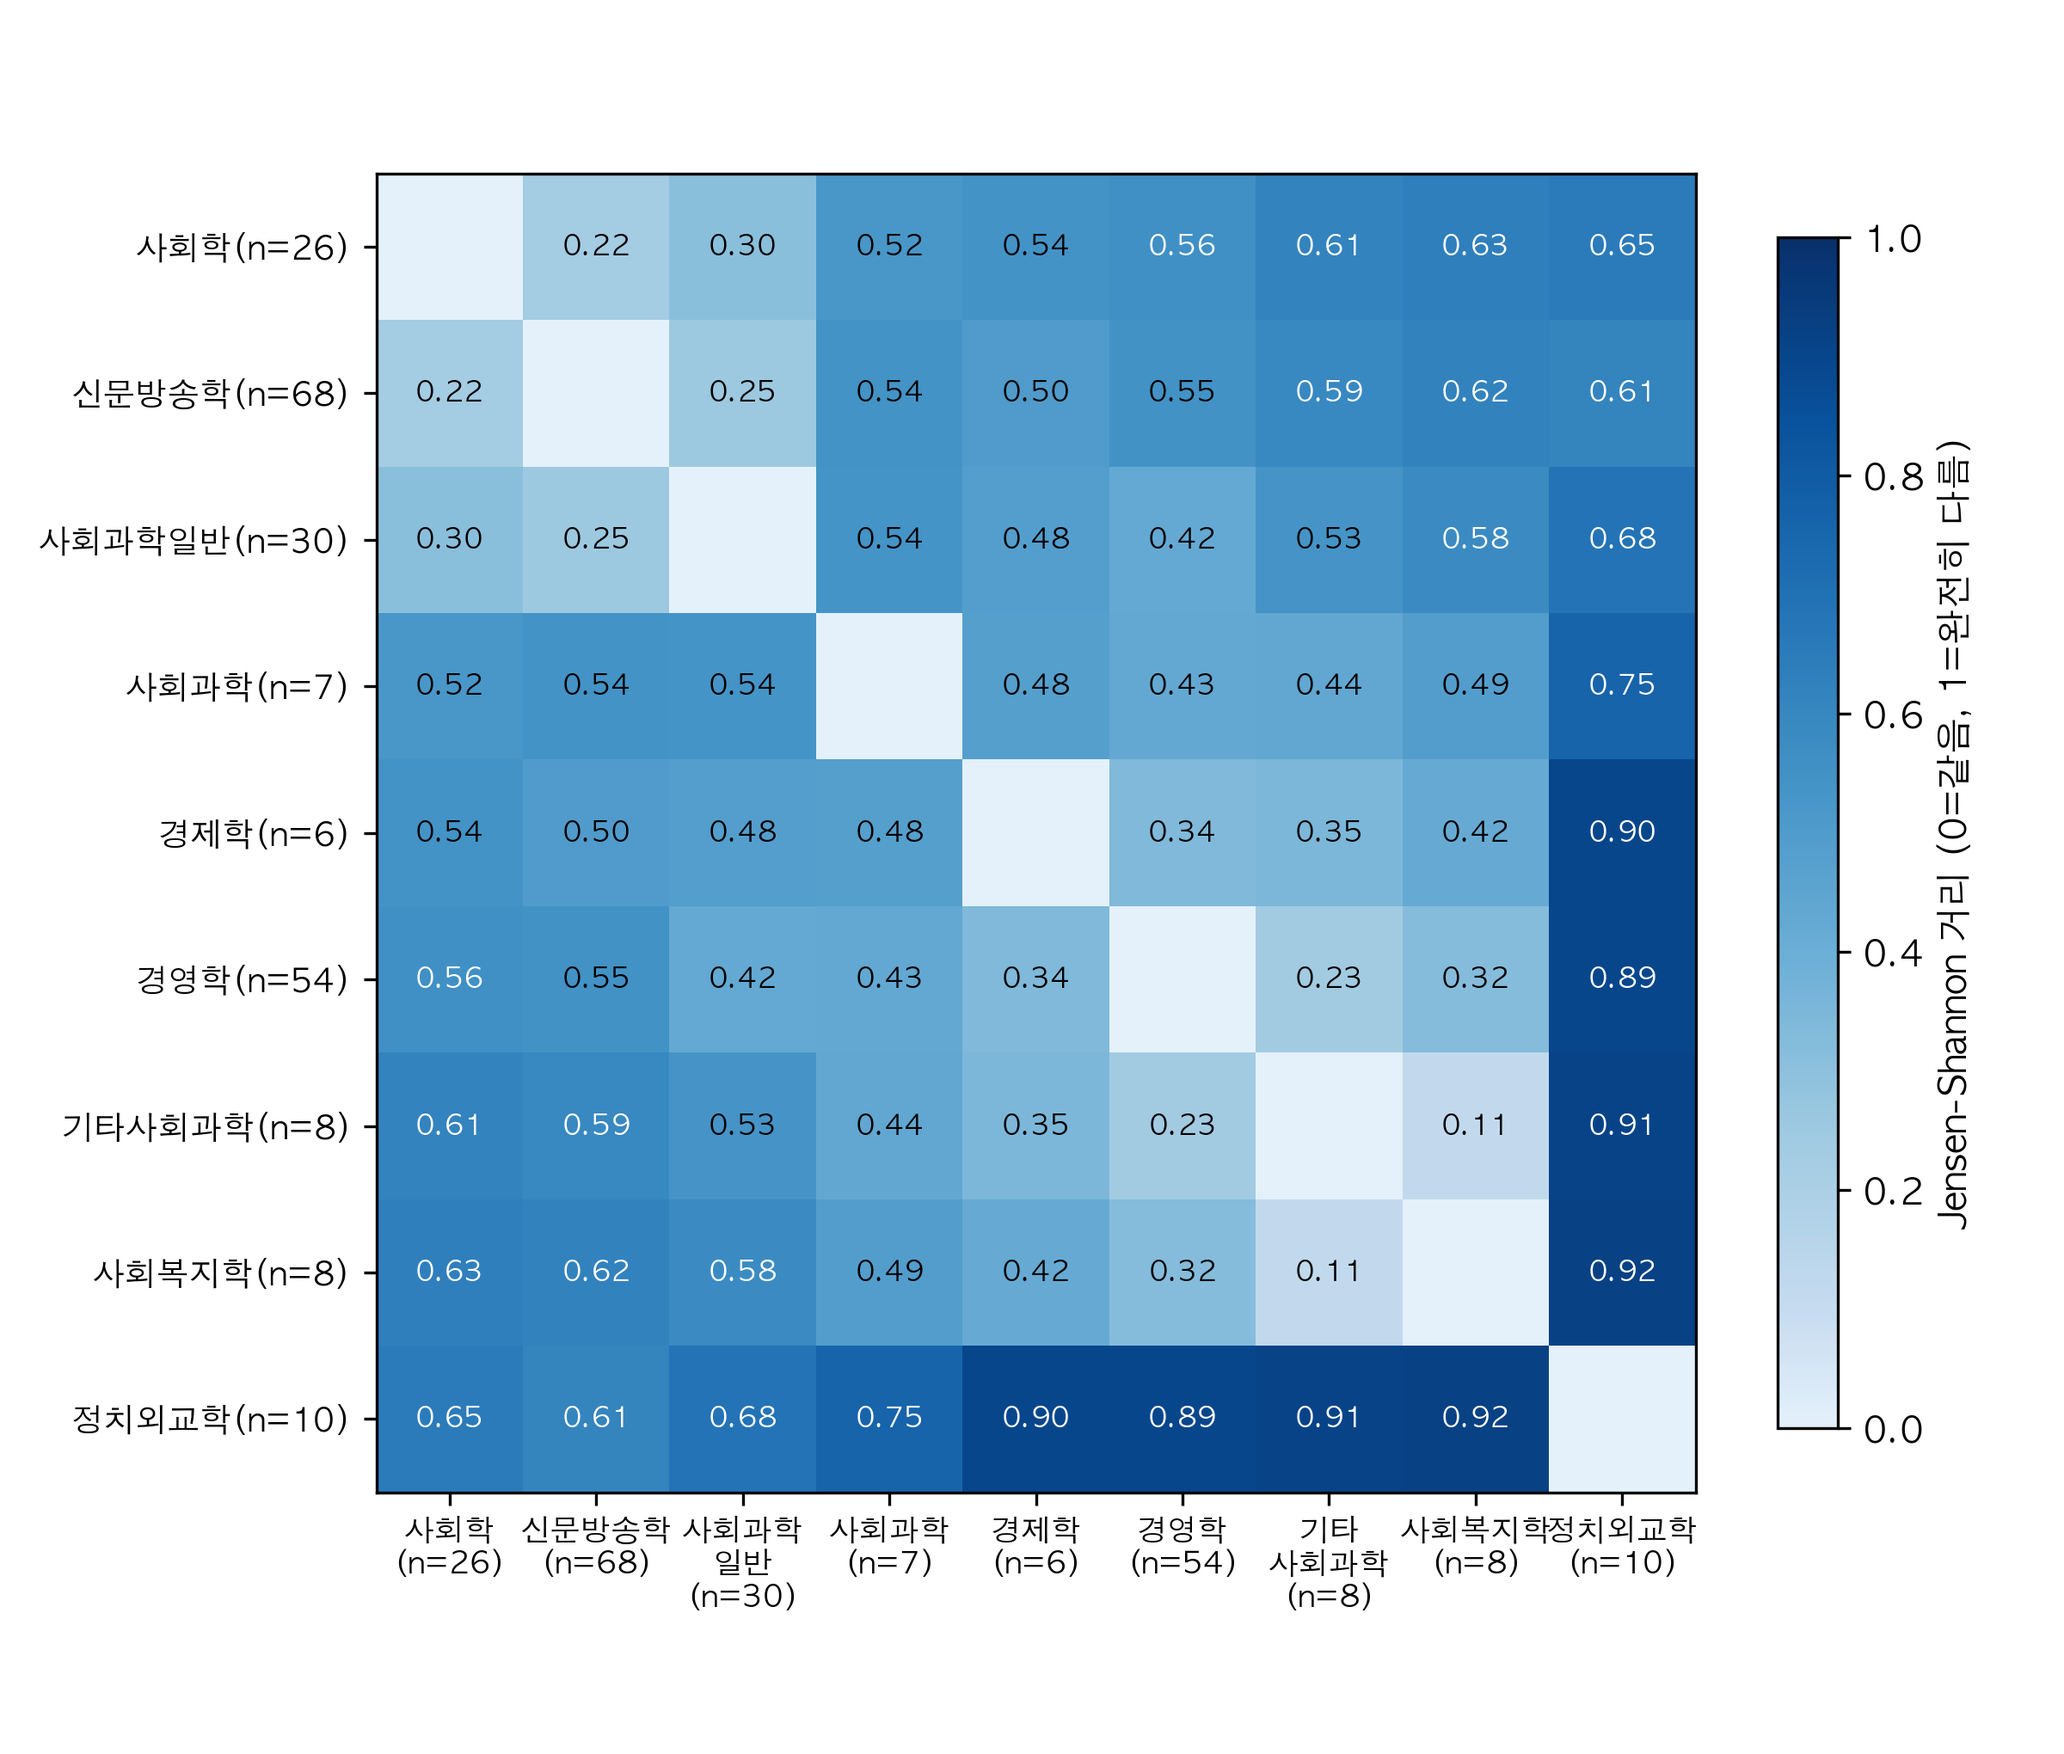
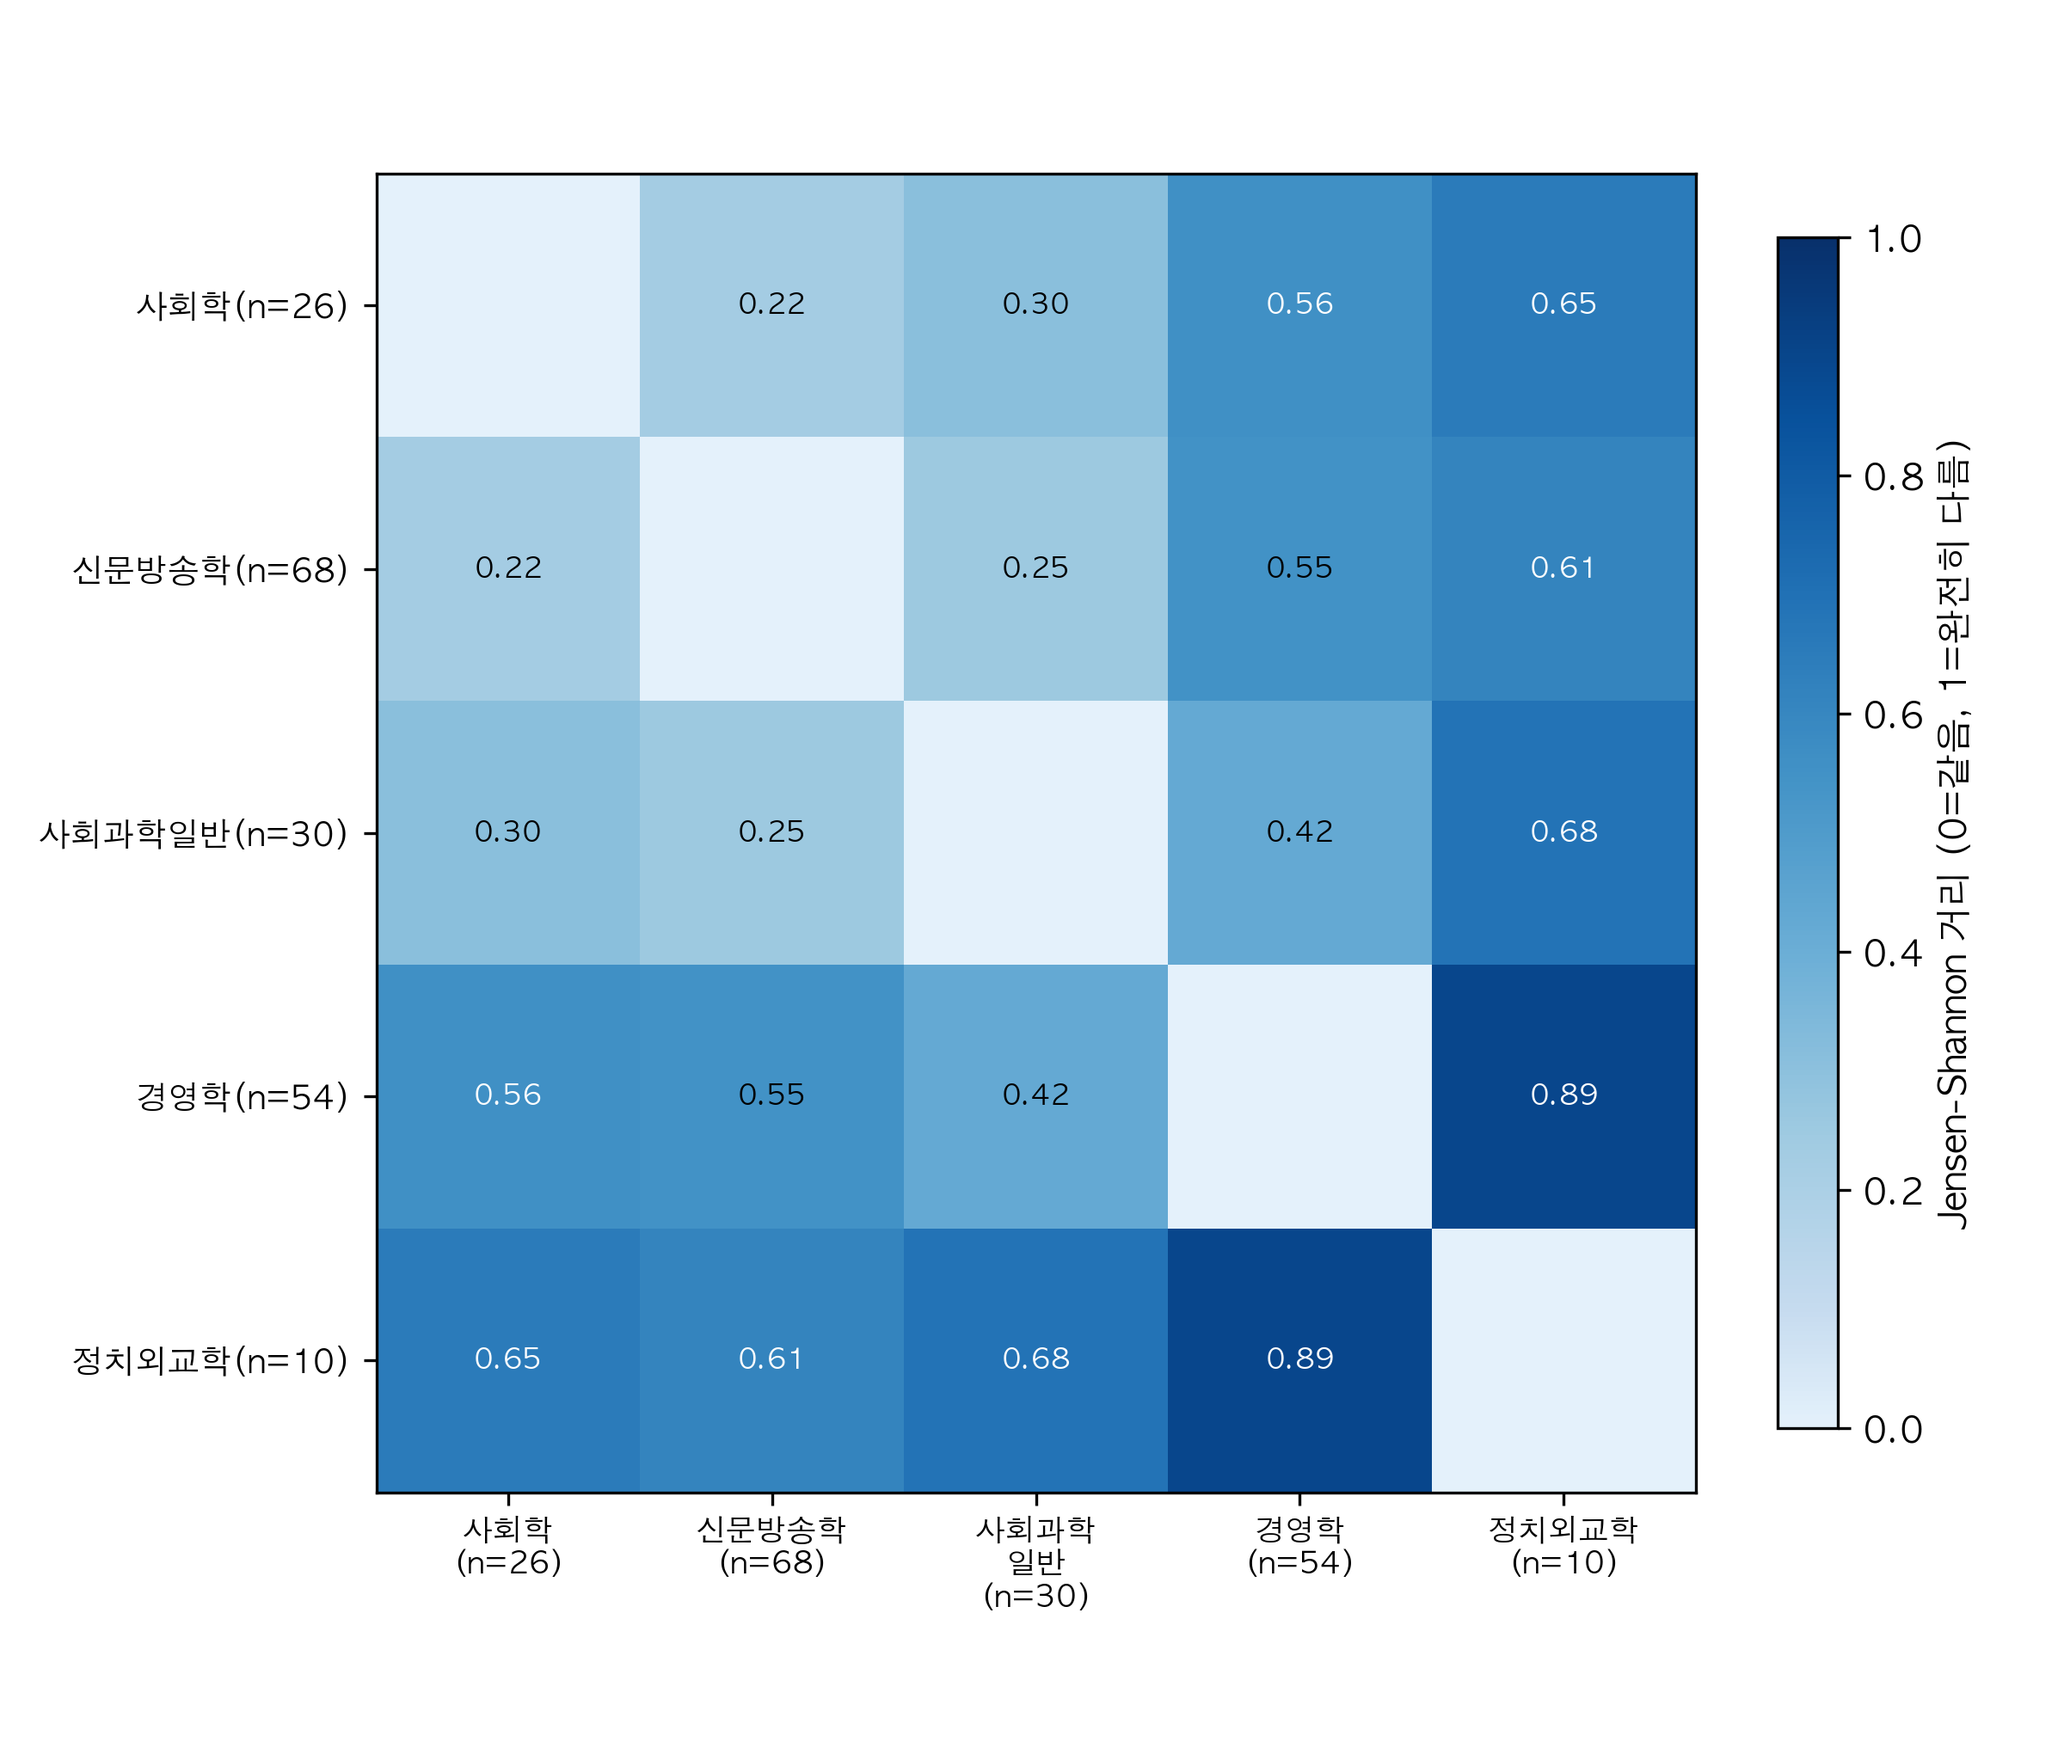
20260929

diff --git a/target_new/visualize_results.py b/target_new/visualize_results.py
@@ -148,16 +148,18 @@ def load_merged(excluded: bool = False) -> pd.DataFrame:
     """분류 결과 + 원본 엑셀의 중분류(분야)를 논문ID 기준으로 합친다. 기본은 ALLOWED_FIELDS만
     남기고, excluded=True면 반대로 화이트리스트에서 빠진 분야만 남긴다(7c번 그래프용)."""
     results = pd.read_csv(RESULTS_CSV, encoding="utf-8-sig", dtype={"id": str})
-    # 3회 분류에서 판정이 전부 갈려 과반 라벨이 없는 논문(status=OK인데 코드가 빈칸)은 리뷰 전까지
-    # 모든 그래프에서 뺀다 - 그대로 두면 편수 그래프(1·2·6번)에는 들어가고 코드 그래프에서는 빠져서
-    # 그래프마다 분모가 달라진다. 리뷰대상 목록은 analyze_runs3.py가 따로 만든다
+    # 과반 라벨이 없는 논문은 분야·시기별 코드 분석에서만 제외한다. 전체 요약(0번)은 원본 CSV를
+    # 별도로 읽어 이 문헌들을 미분류로 포함한다. 리뷰대상 목록은 analyze_runs3.py가 따로 만든다.
     no_label = (
         (results["status"] == "OK")
         & results["role_codes"].fillna("").str.strip().eq("")
         & results["env_codes"].fillna("").str.strip().eq("")
     )
     if no_label.any():
-        print(f"과반 라벨 없는 논문 {no_label.sum()}편은 그래프에서 제외 (리뷰 대상)")
+        print(
+            f"과반 라벨 없는 논문 {no_label.sum()}편: 0번 요약에는 미분류로 포함, "
+            "분야·시기별 그래프에서는 제외 (리뷰 대상)"
+        )
     results = results[~no_label]
     meta = pd.read_excel(XLSX_PATH, sheet_name="Sheet1", dtype={"논문ID": str})
     meta = meta[["논문ID", "중분류"]].rename(columns={"논문ID": "id", "중분류": "field"})
@@ -212,6 +214,81 @@ def chart1_overall_decade(df: pd.DataFrame) -> None:
     ax.spines[["top", "right"]].set_visible(False)
     fig.tight_layout()
     fig.savefig(OUT_DIR / "1_전체_시기별_추이.png", dpi=150)
+    plt.close(fig)
+
+
+def chart0_classification_summary(df: pd.DataFrame) -> None:
+    """원본 분류 CSV 전체를 분모로 ERR/비에러와 비에러 내 코드 비율을 각각 그린다."""
+    results = pd.read_csv(RESULTS_CSV, encoding="utf-8-sig", dtype={"id": str})
+    results["status"] = results["status"].fillna("").astype(str).str.strip()
+    csv_total = len(results)
+    if csv_total == 0:
+        print("요약 그래프 생략: 추출된 문헌이 없습니다")
+        return
+    total = csv_total
+
+    is_error = results["status"].eq("ERR")
+    non_error = ~is_error
+    has_role = results["role_codes"].fillna("").astype(str).str.strip().ne("")
+    has_env = results["env_codes"].fillna("").astype(str).str.strip().ne("")
+    groups = {
+        "역할만": non_error & has_role & ~has_env,
+        "환경만": non_error & ~has_role & has_env,
+        "역할+환경": non_error & has_role & has_env,
+        "미분류": non_error & ~has_role & ~has_env,
+    }
+    counts = {label: int(mask.sum()) for label, mask in groups.items()}
+    err_count = int(is_error.sum())
+    non_error_count = int(non_error.sum())
+    role_count = int((non_error & has_role).sum())
+    env_count = int((non_error & has_env).sum())
+    unclassified_count = counts["미분류"]
+
+    overall_labels = ["온라인 커뮤니티와 관련 없음", "온라인 커뮤니티 관련"]
+    overall_counts = [err_count, non_error_count]
+    overall_colors = [BAR_COLOR, ACCENT_COLOR]
+    fig, ax = plt.subplots(figsize=(7, 2.4))
+    bars = ax.barh(overall_labels, overall_counts, color=overall_colors, height=0.76)
+    for bar, count in zip(bars, overall_counts):
+        ax.text(
+            bar.get_width() + total * 0.012,
+            bar.get_y() + bar.get_height() / 2,
+            f"{count:,}  ({count / total:.1%})",
+            va="center",
+            fontsize=11,
+        )
+    ax.set_xlim(0, total * 1.16)
+    ax.set_xticks([])
+    ax.tick_params(axis="y", length=0, labelsize=11)
+    ax.spines[:].set_visible(False)
+    ax.spines["left"].set_visible(True)
+    ax.spines["left"].set_color("#b8c4d3")
+    fig.subplots_adjust(left=0.18, right=0.97, top=0.98, bottom=0.02)
+    fig.savefig(OUT_DIR / "0a_전체_ERR_비에러.png", dpi=180, bbox_inches="tight")
+    plt.close(fig)
+
+    detail_labels = ["미분류", "환경적 특성 조명", "역할적 특성 조명"]
+    detail_counts = [unclassified_count, env_count, role_count]
+    detail_colors = ["#b8c4d3", ACCENT_COLOR, BAR_COLOR]
+    fig, ax = plt.subplots(figsize=(7, 2.55))
+    bars = ax.barh(detail_labels, detail_counts, color=detail_colors, height=0.76)
+    for bar, count in zip(bars, detail_counts):
+        fraction = count / non_error_count if non_error_count else 0
+        ax.text(
+            bar.get_width() + non_error_count * 0.012,
+            bar.get_y() + bar.get_height() / 2,
+            f"{count:,}  ({fraction:.1%})",
+            va="center",
+            fontsize=11,
+        )
+    ax.set_xlim(0, max(detail_counts, default=0) * 1.22 or 1)
+    ax.set_xticks([])
+    ax.tick_params(axis="y", length=0, labelsize=11)
+    ax.spines[:].set_visible(False)
+    ax.spines["left"].set_visible(True)
+    ax.spines["left"].set_color("#b8c4d3")
+    fig.subplots_adjust(left=0.22, right=0.97, top=0.98, bottom=0.02)
+    fig.savefig(OUT_DIR / "0b_비에러_역할환경_미분류.png", dpi=180, bbox_inches="tight")
     plt.close(fig)
 
 
@@ -438,9 +515,11 @@ def _draw_ratio_bar(table: pd.DataFrame, colors: tuple[str, str], sort_col: str,
 
 def chart3_field_role_env_ratio_bar(df: pd.DataFrame) -> None:
     """3. 분야별 ROLE(역할)/ENV(환경) 비율 - 세로 100% 누적 막대그래프. ENV 비율이 높은
-    분야가 왼쪽에 오게 정렬(대부분 ROLE이 압도적이라, ENV가 조금이라도 있는 분야를 눈에 띄게)."""
+    분야가 왼쪽에 오게 정렬한다. 표시 n(ROLE/ENV 코드 등장 횟수 합)이 10 미만인 분야는 뺀다."""
+    table = _field_roleenv_table(df)
+    table = table.loc[table.sum(axis=1) >= 10]
     _draw_ratio_bar(
-        _field_roleenv_table(df),
+        table,
         colors=(BAR_COLOR, ACCENT_COLOR),
         sort_col="ENV(환경)",
         out_path=OUT_DIR / "3_분야별_환경역할_비율_막대.png",
@@ -572,6 +651,9 @@ def _field_code_table(df: pd.DataFrame) -> tuple[pd.DataFrame, pd.Series]:
     # y축 n은 코드 등장 횟수 합이 아니라 논문 편수로 표시 - 코드를 2개 가진 논문도 1편으로 센다
     has_code = (ok["role_codes"].fillna("").str.strip() != "") | (ok["env_codes"].fillna("").str.strip() != "")
     paper_counts = ok.loc[has_code, "field_bucket"].value_counts()
+    included_fields = paper_counts[paper_counts >= 10].index
+    table = table.loc[table.index.intersection(included_fields)]
+    paper_counts = paper_counts.loc[included_fields]
     return table, paper_counts
 
 
@@ -714,7 +796,7 @@ def chart3_5_compact(df: pd.DataFrame) -> None:
 
 
 REFERENCE_FIELD = "사회학"  # 분야 간 거리(10·11번)의 기준 분야 - 연구의 중심 분야
-MIN_CODES_FOR_DISTANCE = 5  # 코드가 이보다 적은 분야는 비율 벡터가 불안정해서 거리 분석에서 뺀다
+MIN_CODES_FOR_DISTANCE = 10  # 코드가 이보다 적은 분야는 비율 벡터가 불안정해서 거리 분석에서 뺀다
 
 
 def _field_code_share(df: pd.DataFrame) -> tuple[pd.DataFrame, pd.Series]:
@@ -902,6 +984,7 @@ def main() -> None:
     df = load_merged()
     print(f"병합된 논문 수(발행년 있는 것만): {len(df)}")
 
+    chart0_classification_summary(df)
     chart1_overall_decade(df)
     chart2_field_decade_stacked(df)
     chart3_field_role_env_ratio_bar(df)
